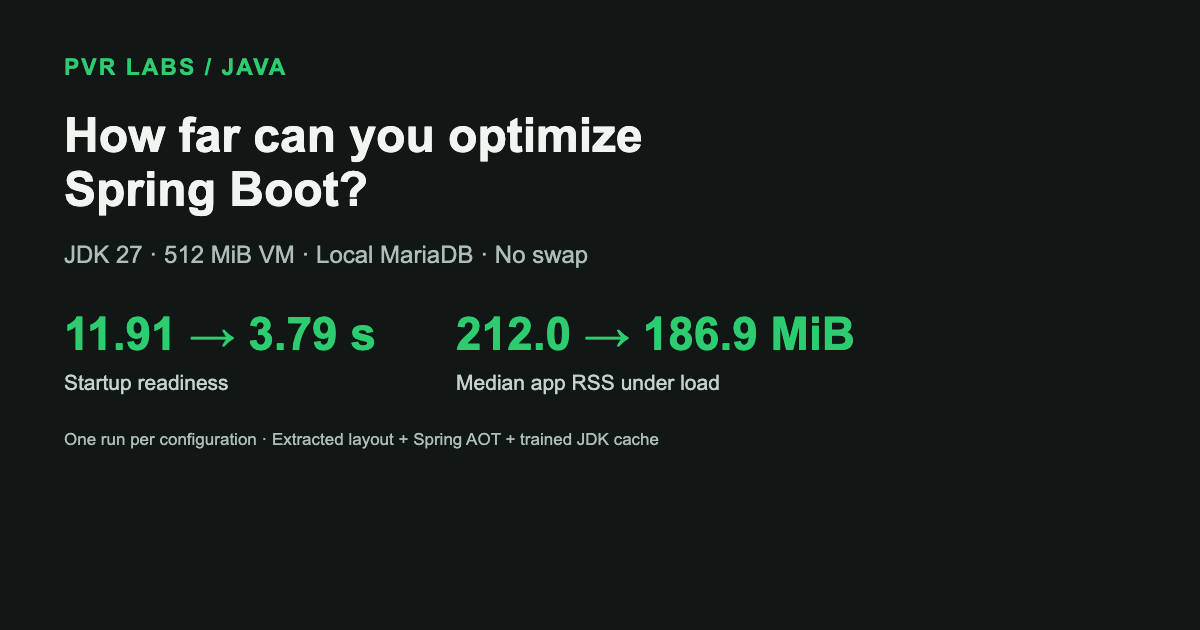
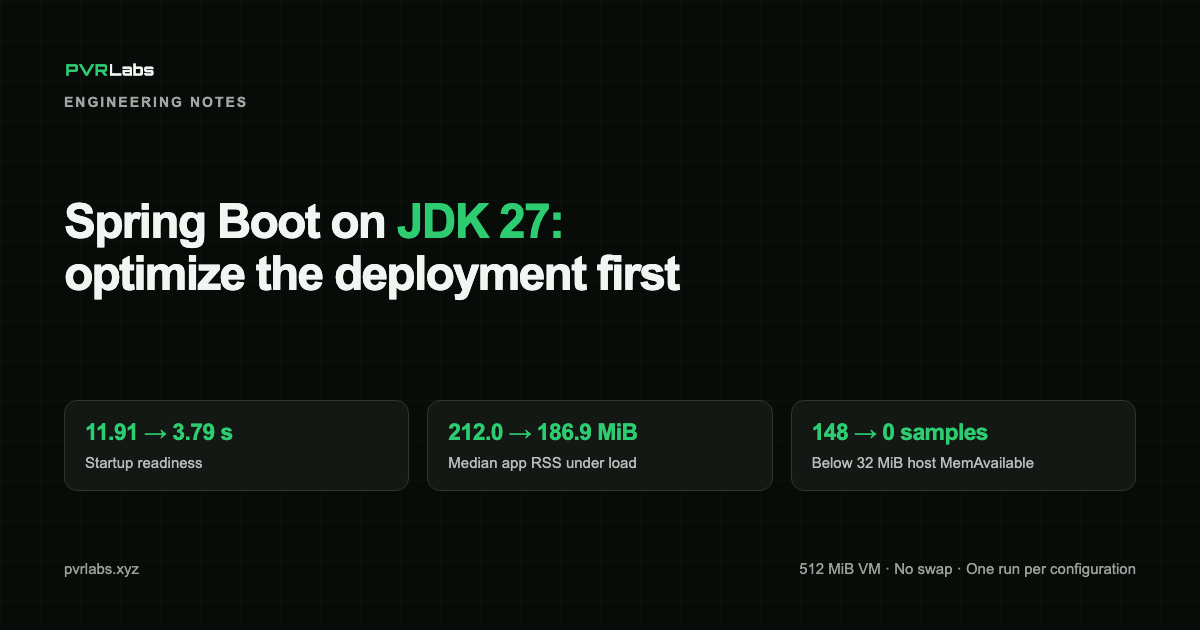
Restyle JDK 27 article social preview

diff --git a/articles/img/spring-boot-jdk27-optimizations/og-preview.html b/articles/img/spring-boot-jdk27-optimizations/og-preview.html
@@ -1,0 +1,32 @@
+<!doctype html>
+<html lang="en">
+<head>
+<meta charset="utf-8">
+<meta name="viewport" content="width=device-width, initial-scale=1">
+<title>Spring Boot on JDK 27 social preview</title>
+<style>
+* { box-sizing: border-box; }
+body { margin: 0; width: 1200px; height: 630px; padding: 56px 64px 48px; color: #f3f5f3; font-family: Arial, sans-serif; background-color: #080c09; background-image: linear-gradient(#ffffff04 1px, transparent 1px), linear-gradient(90deg, #ffffff04 1px, transparent 1px); background-size: 40px 40px; }
+.logo { width: 92px; height: 26px; background: linear-gradient(90deg, #2ecc71 49%, #f3f5f3 49%); mask: url('../../../img/pvrlabs_alpha_bg.png') center / contain no-repeat; }
+.series { margin-top: 12px; color: #a1a6a3; font-size: 14px; font-weight: 700; letter-spacing: 2px; }
+h1 { margin: 86px 0 0; font-size: 48px; line-height: 1.08; letter-spacing: -1.8px; }
+h1 span { color: #2ecc71; }
+.results { display: grid; grid-template-columns: repeat(3, 1fr); gap: 18px; margin-top: 100px; }
+.result { padding: 18px 20px; border: 1px solid #303631; border-radius: 13px; background: #141815; }
+.result strong { display: block; margin-bottom: 8px; color: #2ecc71; font-size: 23px; letter-spacing: -.6px; white-space: nowrap; }
+.result span { color: #b7beba; font-size: 15px; }
+footer { display: flex; justify-content: space-between; margin-top: 69px; color: #98a19b; font-size: 15px; }
+</style>
+</head>
+<body>
+<div class="logo" role="img" aria-label="PVR Labs"></div>
+<div class="series">ENGINEERING NOTES</div>
+<h1>Spring Boot on <span>JDK 27:</span><br>optimize the deployment first</h1>
+<div class="results">
+<div class="result"><strong>11.91 → 3.79 s</strong><span>Startup readiness</span></div>
+<div class="result"><strong>212.0 → 186.9 MiB</strong><span>Median app RSS under load</span></div>
+<div class="result"><strong>148 → 0 samples</strong><span>Below 32 MiB host MemAvailable</span></div>
+</div>
+<footer><span>pvrlabs.xyz</span><span>512 MiB VM · No swap · One run per configuration</span></footer>
+</body>
+</html>
